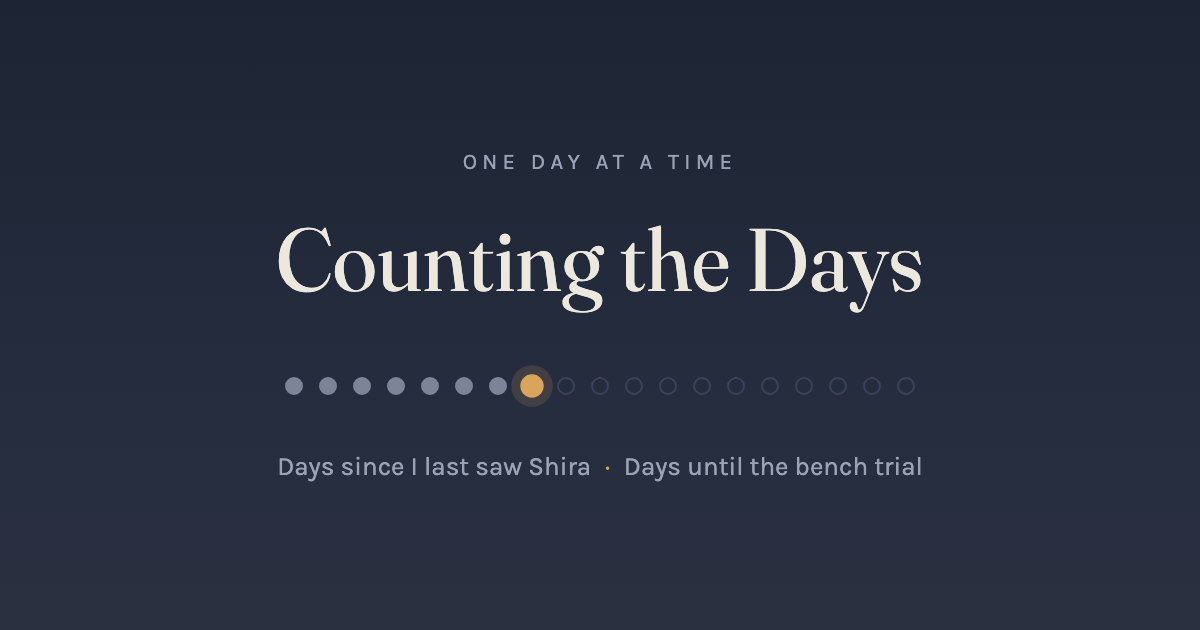
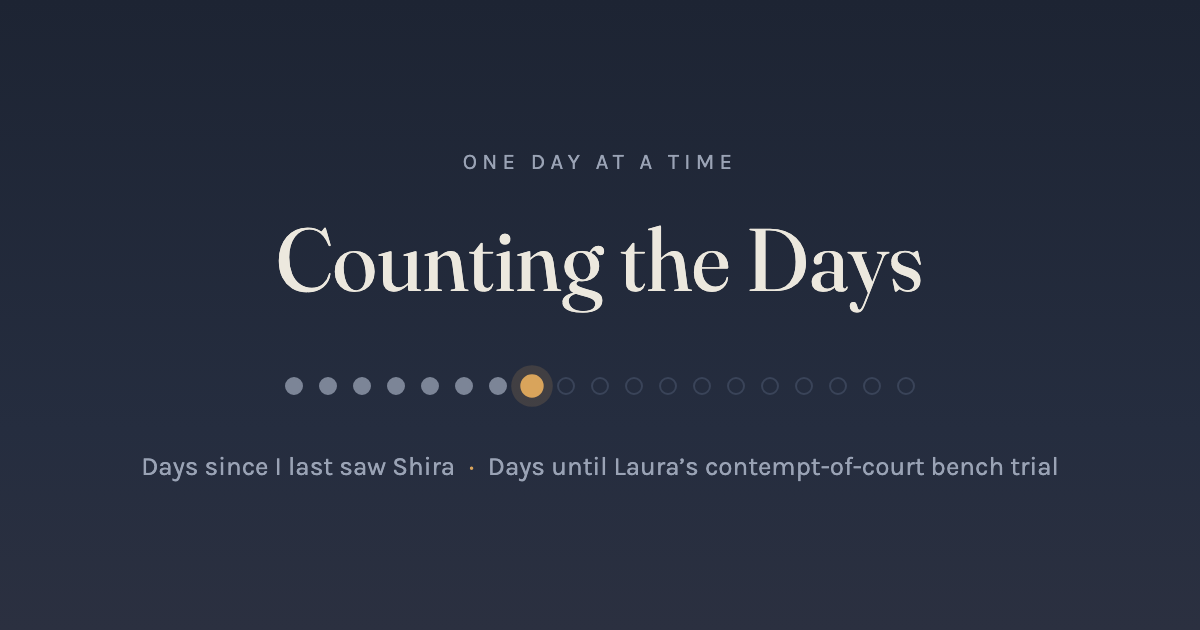
Rename trial counter to Laura's contempt-of-court bench trial

Changed region(s): [[0.1233, 0.7238, 0.8942, 0.754]]

diff --git a/index.html b/index.html
@@ -4,7 +4,7 @@
 <meta charset="UTF-8">
 <meta name="viewport" content="width=device-width, initial-scale=1.0">
 <title>Counting the Days</title>
-<meta name="description" content="Counting the days since I last saw Shira, and the days until the bench trial.">
+<meta name="description" content="Counting the days since I last saw Shira, and the days until Laura&rsquo;s contempt-of-court bench trial.">
 <meta name="robots" content="noindex">
 <meta name="theme-color" content="#1d2433">
 <link rel="icon" href="/favicon.svg" type="image/svg+xml">
@@ -12,14 +12,14 @@
 <link rel="apple-touch-icon" href="/apple-touch-icon.png">
 <meta property="og:type" content="website">
 <meta property="og:title" content="Counting the Days">
-<meta property="og:description" content="Counting the days since I last saw Shira, and the days until the bench trial.">
+<meta property="og:description" content="Counting the days since I last saw Shira, and the days until Laura&rsquo;s contempt-of-court bench trial.">
 <meta property="og:url" content="https://shiragitman.com/">
 <meta property="og:image" content="https://shiragitman.com/og-image.png">
 <meta property="og:image:width" content="1200">
 <meta property="og:image:height" content="630">
 <meta name="twitter:card" content="summary_large_image">
 <meta name="twitter:title" content="Counting the Days">
-<meta name="twitter:description" content="Counting the days since I last saw Shira, and the days until the bench trial.">
+<meta name="twitter:description" content="Counting the days since I last saw Shira, and the days until Laura&rsquo;s contempt-of-court bench trial.">
 <meta name="twitter:image" content="https://shiragitman.com/og-image.png">
 <link rel="preconnect" href="https://fonts.googleapis.com">
 <link rel="preconnect" href="https://fonts.gstatic.com" crossorigin>
@@ -286,7 +286,7 @@
       </div>
 
       <div class="counter until">
-        <div class="counter-label">Days until the bench trial</div>
+        <div class="counter-label">Days Until Laura&rsquo;s Contempt-of-Court Bench Trial</div>
         <div class="counter-number" id="daysUntil">&ndash;</div>
         <div class="counter-unit" id="untilWeeks"></div>
         <div class="counter-sub">Custody bench trial <span class="date">November 4, 2026</span></div>
